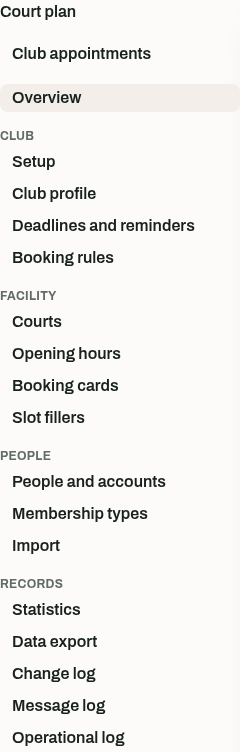
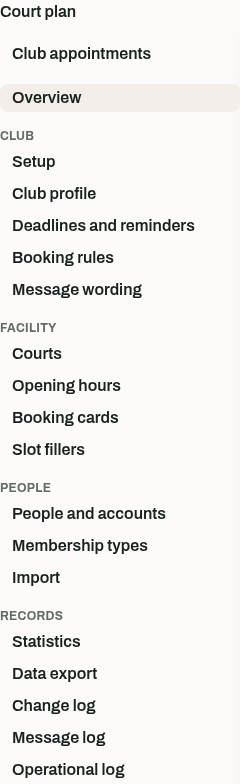
feat(admin): fit the message wording page on a desktop screen and redraw the navigation baselines

diff --git a/frontend/src/views/AdminMessageWordingView.tsx b/frontend/src/views/AdminMessageWordingView.tsx
@@ -123,7 +123,7 @@ export function AdminMessageWordingView() {
     await run(() => perform(requested), requested);
   }
 
-  return <section data-testid="admin-message-wording-view" className="surface-panel min-w-0 grid gap-6 rounded-2xl border p-6 shadow-[0_20px_50px_var(--cs-shadow)] [&>*]:min-w-0 [&>*]:max-w-5xl sm:p-8">
+  return <section data-testid="admin-message-wording-view" className="surface-panel min-w-0 grid gap-5 rounded-2xl border p-6 shadow-[0_20px_50px_var(--cs-shadow)] [&>*]:min-w-0 [&>*]:max-w-5xl sm:p-8">
     <h1 className="text-3xl font-bold">{t("admin.messageWording.title")}</h1>
     <p className="text-muted">{t("admin.messageWording.explain")}</p>
     {!templates || !template || !wording
@@ -159,7 +159,7 @@ export function AdminMessageWordingView() {
         </div>
         <TextField data-testid="wording-subject" maxLength={200} label={t("admin.messageWording.subject")} value={draft.subject} onChange={(event) => setDraft({ ...draft, subject: event.target.value })} />
         <label className="grid gap-2 font-medium">{t("admin.messageWording.body")}
-          <textarea data-testid="wording-body" rows={10} maxLength={10000} className="form-control w-full min-w-0 rounded-lg border px-3 py-3 font-mono text-sm" value={draft.body} onChange={(event) => setDraft({ ...draft, body: event.target.value })} />
+          <textarea data-testid="wording-body" rows={7} maxLength={10000} className="form-control w-full min-w-0 rounded-lg border px-3 py-3 font-mono text-sm" value={draft.body} onChange={(event) => setDraft({ ...draft, body: event.target.value })} />
         </label>
         <div className="flex flex-wrap gap-3">
           <Button data-testid="wording-preview" variant="secondary" disabled={pending} type="button" onClick={showPreview}>{t("admin.messageWording.preview")}</Button>
